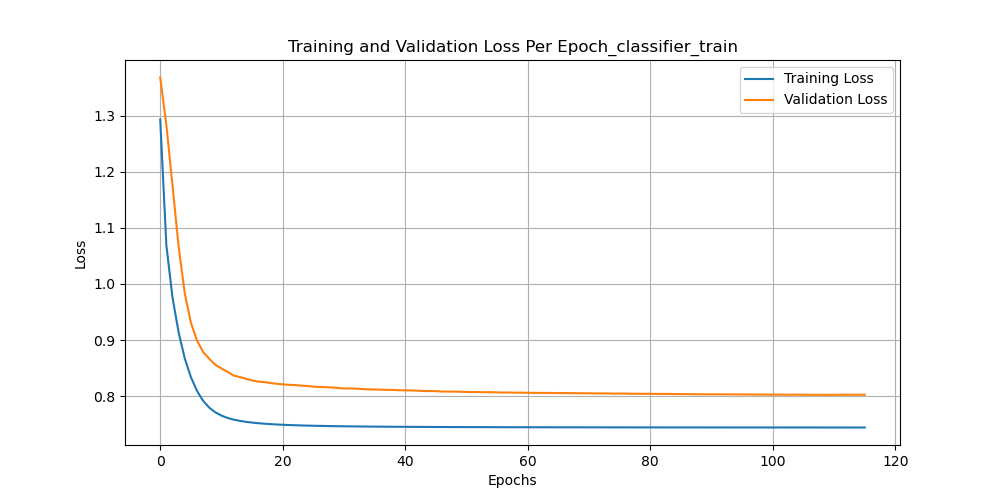
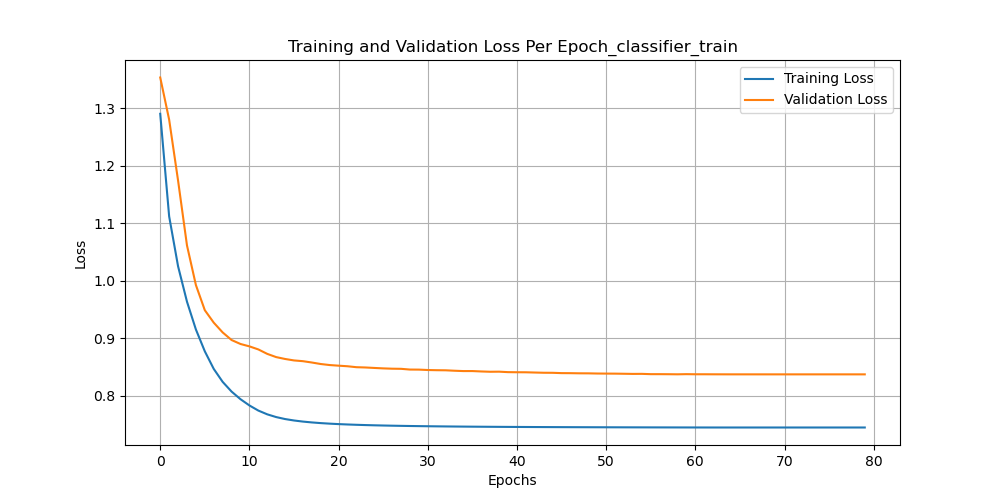
Commits

diff --git a/test.py b/test.py
@@ -16,8 +16,8 @@ torch.backends.cudnn.deterministic, torch.backends.cudnn.benchmark = True, False
 device = torch.device("cuda" if torch.cuda.is_available() else "cpu")
 
 # File paths and settings
-chip_number = 4  # Chip number for testing
-base_path = "D:\Stelios\Work\Auth_AI\semester_3\Thesis\December/fts_mzi_project/types_of_normalization\class4_of_every_chip_mean_and_std/test_4"
+chip_number = 3  # Chip number for testing
+base_path = "D:\Stelios\Work\Auth_AI\semester_3\Thesis\December/fts_mzi_project/types_of_normalization\class4_of_every_chip_mean_and_std/test_3"
 test_file_path = f'{base_path}/{chip_number}.csv'
 batch_size = 32  # Adjust batch size if needed
 
@@ -77,19 +77,19 @@ _, _, test_loader, *_ = create_dataloaders(X_test=X_test, y_test=y_test, batch_s
 
 # model_denoiser_1 = ConvDenoiser1().to(device)
 model_denoiser_2 = ConvDenoiser2().to(device)
-model_denoiser_3 = ConvDenoiser3().to(device)
+# model_denoiser_3 = ConvDenoiser3().to(device)
 # model_denoiser_4 = ConvDenoiser4().to(device)
 
 # Load trained weights
 # model_denoiser_1.load_state_dict(torch.load(f'pths/denoiser_model_1.pth'))
 model_denoiser_2.load_state_dict(torch.load(f'pths/denoiser_model_2.pth'))
-model_denoiser_3.load_state_dict(torch.load(f'pths/denoiser_model_3.pth'))
+# model_denoiser_3.load_state_dict(torch.load(f'pths/denoiser_model_3.pth'))
 # model_denoiser_4.load_state_dict(torch.load(f'pths/denoiser_model_4.pth'))
 
 # # Set models to evaluation mode
 # model_denoiser_1.eval()
 model_denoiser_2.eval()
-model_denoiser_3.eval()
+# model_denoiser_3.eval()
 # model_denoiser_4.eval()
 
 all_denoised_features = []
@@ -102,10 +102,10 @@ with torch.no_grad():
         # Pass sequentially through each denoiser
         # denoised_1 = model_denoiser_1(X_test_batch)[0]
         denoised_2 = model_denoiser_2(X_test_batch)[0]
-        denoised_3 = model_denoiser_3(X_test_batch)[0]
+        # denoised_3 = model_denoiser_3(X_test_batch)[0]
         # denoised_4 = model_denoiser_4(X_test_batch)[0]
 
-        combined_features = torch.cat([denoised_2, denoised_3], dim=2)
+        combined_features = torch.cat([denoised_2], dim=2)
 
         # combined_features = torch.cat([denoised_1, denoised_2, denoised_3, denoised_4], dim=2)
 

diff --git a/main.py b/main.py
@@ -28,7 +28,7 @@ base_path = "D:\Stelios\Work\Auth_AI\semester_3\Thesis\January\encoder_decoder\c
 X_denoised_train_dict, X_denoised_val_dict, X_denoised_test_dict = {}, {}, {}
 
 # Loop over chip numbers to train sequentially, loading the pretrained model from the previous chip
-for chip_number in range(2, 4):
+for chip_number in range(2, 3):
     print(f"Training on Chip {chip_number}...")
 
     # Load the shuffled dataset for the current chip
@@ -92,9 +92,9 @@ for chip_number in range(2, 4):
                                                                             axis=2)
 
 # Extract train, validation, and test arrays from dictionaries
-X_denoised_train = [X_denoised_train_dict[f"X_denoised_train_{i}"] for i in range(2, 4)]
-X_denoised_val = [X_denoised_val_dict[f"X_denoised_val_{i}"] for i in range(2, 4)]
-X_denoised_test = [X_denoised_test_dict[f"X_denoised_test_{i}"] for i in range(2, 4)]
+X_denoised_train = [X_denoised_train_dict[f"X_denoised_train_{i}"] for i in range(2, 3)]
+X_denoised_val = [X_denoised_val_dict[f"X_denoised_val_{i}"] for i in range(2, 3)]
+X_denoised_test = [X_denoised_test_dict[f"X_denoised_test_{i}"] for i in range(2, 3)]
 
 # Combine all datasets
 X_denoised_train_all = combine_denoised_data(*X_denoised_train)

diff --git a/utils/models.py b/utils/models.py
@@ -200,7 +200,7 @@ class Classifier(nn.Module):
         # pooling --> 16
 
         # Fully connected layer for classification
-        self.fc1 = nn.Linear(32*8, num_classes) # input size --> 32
+        self.fc1 = nn.Linear(32*4, num_classes) # input size --> 32
         self.softmax = nn.Softmax(dim=1)
 
     def forward(self, z):
